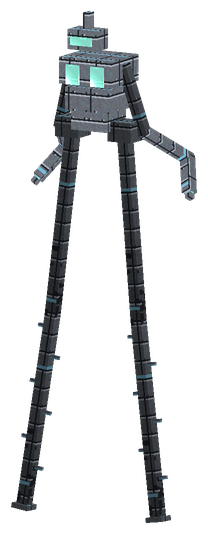
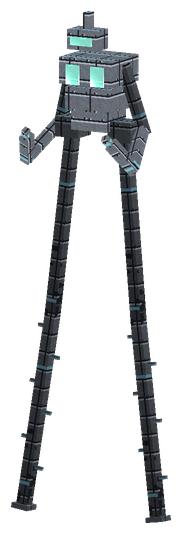
Annihilation: fold the scythe arms in front of the chest, as in the reference

Changed region(s): [[0.0549, 0.0, 0.9615, 0.9888]]

diff --git a/src/main/java/dev/arena/wotw/client/model/TripodModels.java b/src/main/java/dev/arena/wotw/client/model/TripodModels.java
@@ -8384,11 +8384,11 @@ public final class TripodModels {
 
         PartDefinition arm_l_blade = arm_l.addOrReplaceChild("arm_l_blade",
                 CubeListBuilder.create()
-                        .texOffs(0, 0).addBox(-3, 0, -3, 6, 40, 6)
-                        .addBox(-3, 34, -26, 6, 7, 28)
-                        .addBox(-2, 36, -30, 4, 4, 8)
-                        .addBox(-2, 36, -27, 4, 3, 4),
-                PartPose.offsetAndRotation(0, 42, 0, 0.8029F, 0.0F, 0.2793F));
+                        .texOffs(0, 0).addBox(-3, 0, -3, 6, 34, 6)
+                        .addBox(-3, 30, -22, 6, 7, 24)
+                        .addBox(-2, 32, -28, 4, 4, 8)
+                        .addBox(-2, 32, -25, 4, 3, 4),
+                PartPose.offsetAndRotation(0, 40, 0, -1.0123F, 0.0F, 0.1396F));
 
         PartDefinition arm_r = body.addOrReplaceChild("arm_r",
                 CubeListBuilder.create()
@@ -8397,11 +8397,11 @@ public final class TripodModels {
 
         PartDefinition arm_r_blade = arm_r.addOrReplaceChild("arm_r_blade",
                 CubeListBuilder.create()
-                        .texOffs(0, 0).addBox(-3, 0, -3, 6, 40, 6)
-                        .addBox(-3, 34, -26, 6, 7, 28)
-                        .addBox(-2, 36, -30, 4, 4, 8)
-                        .addBox(-2, 36, -27, 4, 3, 4),
-                PartPose.offsetAndRotation(0, 42, 0, 0.8029F, 0.0F, -0.2793F));
+                        .texOffs(0, 0).addBox(-3, 0, -3, 6, 34, 6)
+                        .addBox(-3, 30, -22, 6, 7, 24)
+                        .addBox(-2, 32, -28, 4, 4, 8)
+                        .addBox(-2, 32, -25, 4, 3, 4),
+                PartPose.offsetAndRotation(0, 40, 0, -1.0123F, 0.0F, -0.1396F));
 
         PartDefinition vent0 = body.addOrReplaceChild("vent0",
                 CubeListBuilder.create()

diff --git a/tools/generate_models.py b/tools/generate_models.py
@@ -1752,11 +1752,11 @@ def annihilation_tripod():
     for side, name in ((-1, "arm_l"), (1, "arm_r")):
         shoulder = m.part(name, parent="body", pivot=(side * 17, -266, 0), rot=(6.0, 0.0, -side * 16.0))
         shoulder.box(-3, 0, -3, 6, 44, 6)
-        blade = m.part(name + "_blade", parent=name, pivot=(0, 42, 0), rot=(46.0, 0.0, -side * 16.0))
-        blade.box(-3, 0, -3, 6, 40, 6)
-        blade.box(-3, 34, -26, 6, 7, 28)
-        blade.box(-2, 36, -30, 4, 4, 8)
-        blade.glow_box(-2, 36, -27, 4, 3, 4)
+        blade = m.part(name + "_blade", parent=name, pivot=(0, 40, 0), rot=(-58.0, 0.0, -side * 8.0))
+        blade.box(-3, 0, -3, 6, 34, 6)
+        blade.box(-3, 30, -22, 6, 7, 24)
+        blade.box(-2, 32, -28, 4, 4, 8)
+        blade.glow_box(-2, 32, -25, 4, 3, 4)
 
     for index, z in enumerate((-8, 6)):
         vent = m.part(f"vent{index}", parent="body", pivot=(0, -250, z))
